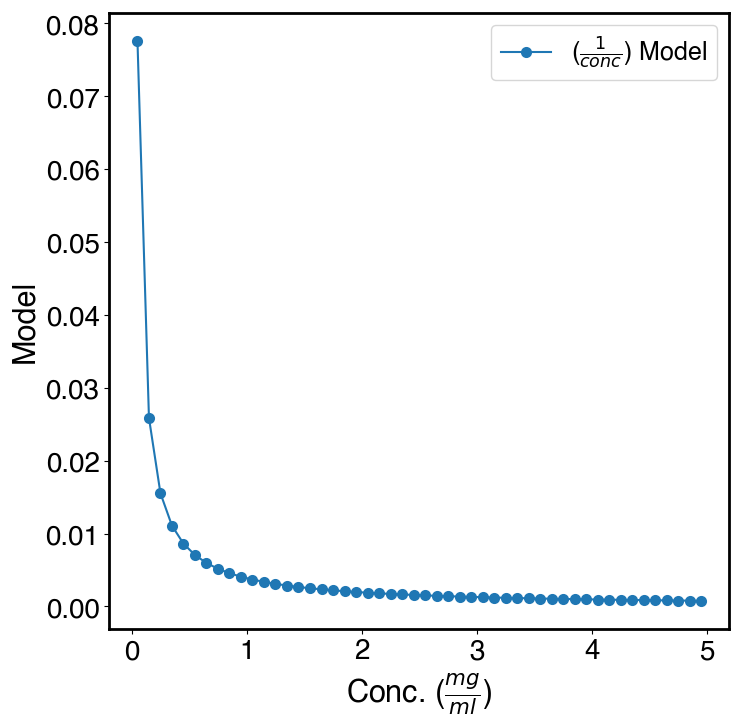
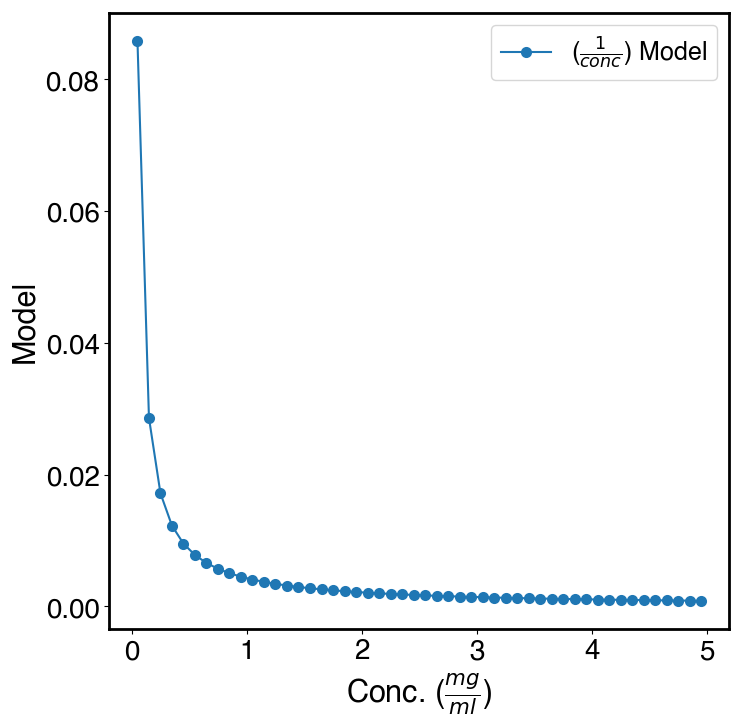
Added a new function to SAXS8.py to calculate I_of_q at each INPUT contrast value. Now we can calculate scattering curves at variable pressures (contrasts). Still in the middle of testing. I will need to build a more sophisticated error calculation function in SAXProf_ErrCalcs.py to calculate the Rg

diff --git a/SAXSProf_err.py b/SAXSProf_err.py
@@ -167,89 +167,10 @@ err_data.plot_S2(conc, rgError, 1.0/(final_slope*np.array(conc)),
                  savelabel = 'Analytical_and_Inv_c_Rg_ErrorModel',
                  xlabel = 'Conc. ($\\frac{mg}{ml}$)', ylabel = '($\\frac{\sigma_{R_{g}}}{R_{g}}$)')
 
-#
-#
-# conc = []
-# errRg =[]
-#
-# for c in np.arange(0.05,5.0,0.1):
-#     saxs1.c = c
-#
-#     # calculate synthetic curve on buf_model profile generated by simulate_buf
-#     I_no_noise = saxs1.I_of_q(saxs1.c,saxs1.mw,saxs1.buf_model_q)
-#
-#     # calculate noisy profile on mask_q points that fall within both buf's q range and the specified default_q range (mask_q_short)
-#     I_w_noise  = saxs1.t * saxs1.pixel_size ** 2 * saxs1.with_noise(saxs1.t,saxs1.buf_model_q,I_no_noise)
-#
-#     # calculated smooth I on default_q (goes all the way to q = 0)
-#     I_no_noise = saxs1.t*saxs1.pixel_size**2*I_no_noise
-#
-#     # calculated smooth I and sigma on same q points as I_w_noise
-#     I_no_noise_calc = saxs1.Icalc*saxs1.t*saxs1.pixel_size**2  # in register with buffer
-#
-#     imin = 0
-#     imax = 90
-#
-#     log_sigma = np.abs(saxs1.sigma/I_w_noise)   # converts sigma of the variable to sigma for log of the variable
-#     (inter,slope,sig2_inter,sig2_slope) = saxs1.lsqfity_with_sigmas(saxs1.buf_model_q[0:imax]**2, np.log(I_w_noise[0:imax]), log_sigma[0:imax])
-#     Rg = np.sqrt(-3*slope)
-#     sig_Rg = np.abs(Rg*np.sqrt(sig2_slope)/(2*slope))    # converts the sigma^2 for the slope to the sigma of Rg
-#     #err_Rg = np.sqrt(-3*err_slope)
-#     # print c,Rg,sig_Rg/Rg,Rg*saxs1.buf_model_q[imax]
-#     conc.append(c)
-#     errRg.append(sig_Rg/Rg)
-# #    errRg.append()
-#     #ax1.set_xlim(5.0,30.0)
-#     #ax1.set_ylim(0.002,0.1)
-# #    plt.plot(saxs1.buf_model_q[0:imax]**2,np.log(I_no_noise[0:imax]),lw=2,
-# #                 label = 'No Noise')
-#
-# #    plt.plot(saxs1.buf_model_q[0:imax]**2,np.log(I_w_noise[0:imax]),'.',
-# #                 label = 'Noise')
-#
-# #    plt.semilogy(saxs1.buf_model_q[0:imax],I_no_noise[0:imax],lw=2,
-# #                 label = 'No Noise')
-# #    plt.semilogy(saxs1.buf_model_q[0:imax],I_w_noise[0:imax],'.',
-# #                 label = 'Noise')
-#
-# #ax1.set_yscale("log")
-# #ax1.legend(loc="lower left", fontsize=14)
-#
-# inv_err = 1.0/np.array(errRg)
-# plt.rc("axes",linewidth=2)
-# #plt.rc("xticks",linewidth=3)
-# plt.rc("lines", markeredgewidth=2)
-# plt.rc('font', **{"sans-serif":["Arial"]})
-# fig = plt.figure(figsize = (8,8))
-# ax1 = fig.add_subplot(1,1,1)
-# #plt.plot(conc, inv_err,label="SAXSProf")
-# plt.plot(conc,errRg,'-o',label='SAXSProf')
-# plt.savefig('Inv_Error_vs_Concentration2.png', format='png')
-# plt.show()
-#
-# # fit data to 1/c by calculating scale factor from first two points
-#
-# final_slope = (inv_err[1]-inv_err[0])/(conc[1]-conc[0])
-# plt.plot(conc,1.0/(final_slope*np.array(conc)),label='1/c fit')
-# #plt.plot(conc,final_slope*np.array(conc),label='1/c fit')
-#
-#
-# plt.ylabel("1/sig_Rg/Rg",size=22)
-# plt.xlabel('$concentration$',size=22)
-# # for tick in ax1.xaxis.get_major_ticks():
-# #     tick.label1.set_fontsize(20)
-# # #    tick.label1.set_fontname('Helvetica')
-# # for tick in ax1.yaxis.get_major_ticks():
-# #     tick.label1.set_fontsize(20)
-# # plt.legend()
-# plt.savefig('Inv_Error_vs_Concentration.png', format='png')
-#
-# plt.show()
-
-
-
-
-
+# RM! 04.28.2020
+test = [30376724222.528214, 29959417761.80821, 28367436004.208202, 26530533976.208206, 23327730440.208195, 20586507413.8082, 19343066041.0082]
+I = saxs1.I_of_q_variable_contrast(saxs1.c, saxs1.mw, saxs1.buf_model_q, test)
+print ('testing function:', I[0])
 ######################################################
 
 ## RM! 04.15.2020 Edits to call PlotSAXS class

diff --git a/SAXS8.py b/SAXS8.py
@@ -553,6 +553,84 @@ class SAXS:
 
         return I
 
+    # RM!
+
+    def I_of_q_variable_contrast(self, c, mw, q, p):
+        """ Calculate smooth I(q) based on reference:Stuhrmann, H. B. (1980). Small angle x-ray scattering of macromolecules in solution.
+        In Synchrotron Radiation Research (Winick, H., Doniach, S., ed.), pp. 513-531. Plenum Press, New York.
+
+        RM! Currently, this script exports an array of arrays, with length equal to the length of the input contrast list.
+        If the user returns I[0], the first array (i.e. the scattering curve at the first contrast value) will be returned.
+        """
+        V = self.V
+        R = self.R
+
+        self.name = "%s_%s_%s_%s_%s_%s_%s_%s_%s_%s_%s_%.2g" % (
+        self.detector, c, mw, self.t, self.shape, self.hr, self.qRg, self.salt_type, self.salt_c, self.energy, self.a,
+        self.P)
+        self.p = p
+        """
+        print "lam", self.lam
+        print "energy", self.energy
+        print "det_eff", self.det_eff
+        print "I_I0_ratio", self.I_I0_ratio
+        print "P",self.P
+        print "a",self.a
+        print "v",self.v
+        print "p",self.p
+        print "mw",self.mw
+        print 'd',self.d
+        print 'c',c
+        print "t",self.t
+        print 'FF(q=0)',self.FF(0.0)
+        """
+        # convert c from mg/ml to g/cm**3, MW from kDa to g, (note: 1000's cancel), P is photons/s entering the sample.
+        #
+        # print "solid angle correction range: ", np.max(self.SolidAngCor(q)), np.min(self.SolidAngCor(q))
+
+        self.mu_win = self.mu_factor * self.lam ** 2.9  # energy dependence of window absorption
+        # print "mu_win = ", self.mu_win
+
+        self.mu = 2.8 * self.lam ** 3  # energy dependence of water absorption
+
+        # RM! Generate series of I0abs values for every contrast value.
+
+        I0abs = []
+        for i in range(0, len(self.p) - 1):
+            I0abs.append((self.v * self.p[i]) ** 2 * self.mw * c / (6.022e23))
+
+        # I0abs = (self.v * self.p) ** 2 * self.mw * c / (6.022e23)
+        # PreFac = exp(-self.mu_win * self.d_win) * self.det_eff * exp(-self.mu * self.d) * self.P / (
+        #             self.a ** 2) * self.d
+
+        I0 = []
+        preFac = exp(-self.mu_win * self.d_win) * self.det_eff * exp(-self.mu * self.d) * self.P / (
+                self.a ** 2) * self.d
+        for i in range(0, len(I0abs) - 1):
+            I0.append(preFac * I0abs[i])
+
+        # print "I(0) = ", I0*self.t*(self.pixel_size)**2, "(photons/pixel)"
+        # print "I(0) = ", I0abs, " (cm-1)"
+        # Full Prefactor converts cm-1 to photons/pixel
+        # print "Full Prefactor = ", PreFac*self.t*(self.pixel_size)**2
+        # print "window transmission: ",exp(-self.mu_win*self.d_win)
+        # print "water  transmission: ",exp(-self.mu*self.d)
+
+        I = []
+        for i in range(0, len(I0) - 1):
+            I.append(I0[i] * self.FF(q))
+
+        # I = I0 * self.FF(q)
+
+        self.I0_model = I0
+        self.I0_model_abs = I0abs
+
+        # Return I: photons per cm**2 per unit time
+        # multiply by pixel area (cm**2) and by exposure time to get actual measured intensity (average photons per pixel at each sampled q bin.
+        # This formula assumes a delta-function beam profile. Finite beam profile should be implemented someday, but won't make much difference in counts.
+
+        return I
+
     def with_noise(self, t, q, I):
         """ Create a scattering profile with simluated noise. I = theoretical scattering profile of molecule in vacuo. 
         Convert I to # of photons, using exposure time, then return a sample for each q from a Poisson distribution

diff --git a/SAXProf_ErrCalcs.py b/SAXProf_ErrCalcs.py
@@ -3,13 +3,18 @@ from matplotlib import pyplot as plt
 
 class ERRORPROP:
 
-    def __init__(self, saxs1 = [], I_no_noise = [], I_w_noise = [], I_no_noise_calc = [], c = []):
+    def __init__(self, saxs1 = [], I_no_noise = [], I_w_noise = [], I_no_noise_calc = [], c = [], synth_buf = [],
+                 MT_cell = []):
         """
         Description: This initializes the class. It imports several important parameters, particularly from the SAXS() class.
         This class also assumes an object has already been assigned to the SAXS() class. In this case, it is saxs1.
 
         """
         self.saxs1 = saxs1
+        # self.c = c
+        self.c = saxs1.c
+        self.synth_buf = synth_buf
+        self.MT_cell = MT_cell
 
         # generate buffer profile. simulate_buf uses trimmed mask_q for q-values
         try:
@@ -18,7 +23,8 @@ class ERRORPROP:
             print(e.args)  # of the instance, and has it printed, and then forces the ValueError to occur.
             raise e
 
-        self.c = saxs1.c
+        self.synth_buf = synth_buf
+        self.MT_cell = MT_cell
 
         # calculate synthetic curve on buf_model profile generated by simulate_buf
         I_no_noise = saxs1.I_of_q(self.c, saxs1.mw, saxs1.buf_model_q)
@@ -73,6 +79,8 @@ class ERRORPROP:
                 errRg.append(sig_Rg / Rg)
             return conc, errRg, sig2_Rg_out
         print('Default imin/imax values used: 0 and 90')
+
+
 
 
     def plot_S1(self, X, Y, plotlabel = '', savelabel = '', xlabel = '', ylabel = ''):
